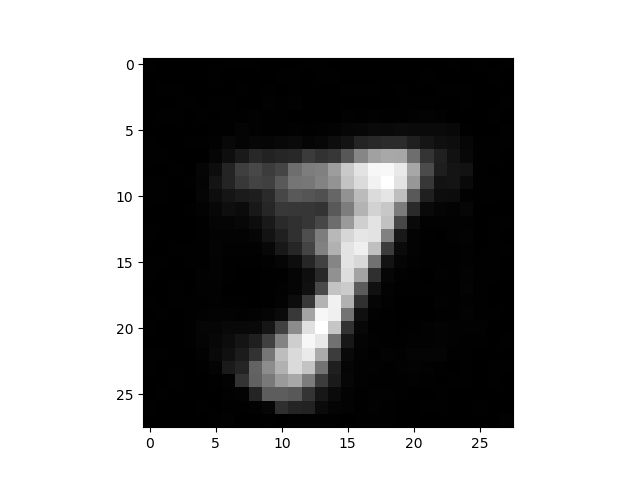
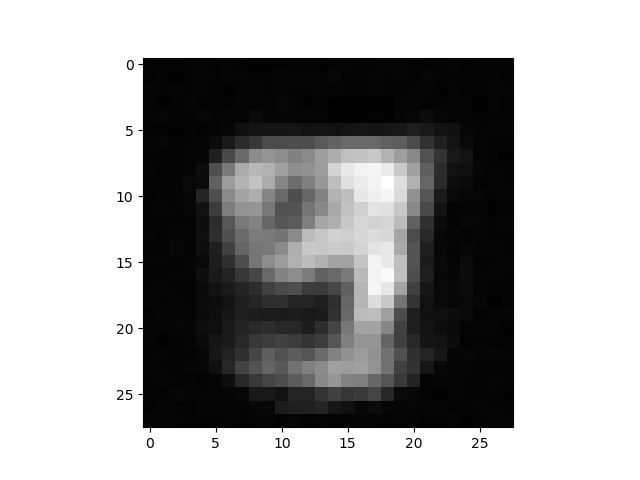
tangent space

Changed region(s): [[0.3125, 0.2812, 0.6875, 0.875]]

diff --git a/algorithm2.py b/algorithm2.py
@@ -27,17 +27,18 @@ model = VAE(784,400,20)
 load_model()
 
 def find_v0(z0):
-	z = Variable(z0.view(20,1),requires_grad=True)
-	sigma = torch.FloatTensor(np.identity(20))
-	mu = torch.zeros(20,1)
-	sigma_np = sigma.numpy()
-	det = np.linalg.det(sigma_np)
-	c = 1.0 / ((math.pow(2*math.pi,10))*(math.sqrt(det))) 
-	a = torch.exp(torch.mm(torch.t(z),z))
-	latent_space = (a * c)
-	latent_space.backward()
-	k = z.grad.data
-	return k	
+	# z = Variable(z0.view(20,1),requires_grad=True)
+	# c = 1.0 / (math.pow(2*math.pi,10)) 
+	# a = torch.exp(-0.5*torch.mm(torch.t(z),z))
+	# latent_space = (a * c)
+	# latent_space.backward()
+	# k = z.grad.data
+	# return k	
+	x = model.decode(z0)
+	z1, z2 = model.encode(x)
+	#print(type(z1))
+	z1.backward()
+	return z0.grad.data
 
 def compute_SVD(matrix):
 	u, sigma, vh = torch.svd(matrix, some=False)
@@ -52,6 +53,7 @@ def make_sigma(sig):
 def main2(z_collection):
 	u = []
 	v0 = find_v0(z_collection[0])
+	print (v0)
 	u0 = torch.matmul(find_jacobian_1(model, Variable(z_collection[0], requires_grad=True)), v0)
 	u.append(u0)
 	T  = len(z_collection) - 1
@@ -69,10 +71,10 @@ def main2(z_collection):
 	ut = u[len(u) - 1]
 	vt_ = find_jacobian(model, Variable(z_collection[len(z_collection) - 1],requires_grad=True))
 	vt = torch.mm(vt_, ut)
-	#make_image(vt.view(20),"algo2_final_latentspace")
+	make_image(vt.view(20),"algo2_final_latentspace")
 	make_image((abs)(v0.view(20)),"algo2_initial_latentspace")
 	make_image(z_collection[0].view(20), "algo2_1")
-	#make_image(z_collection[len(z_collection)-1].view(20), "algo2_2")
+	make_image(z_collection[len(z_collection)-1].view(20), "algo2_2")
 	return vt
 
 zt = torch.FloatTensor(20).normal_().view(20,1)

diff --git a/algorithm1.py b/algorithm1.py
@@ -172,7 +172,7 @@ def find_jacobian_1(model, z1): #Jg
 		z.grad.data.zero_()
 	return jacobian
 
-T = 3
+T = 4
 epsilon = 9
 z_collection = []
 delta_e = torch.FloatTensor(20,784).zero_()
@@ -221,12 +221,9 @@ def sum_energy_1(model):
 	return find_mod(delta_e)
 
 def make_image(z,name):
-    #print(z)
-    z = abs(z)
     x = model.decode(Variable(z))
     x = x.view(28,28)
     img = x.data.numpy()
-    #print(x)
     plt.imshow(img, cmap = 'gray', interpolation = 'nearest')
     plt.savefig('./' + name + '.jpg')
 
